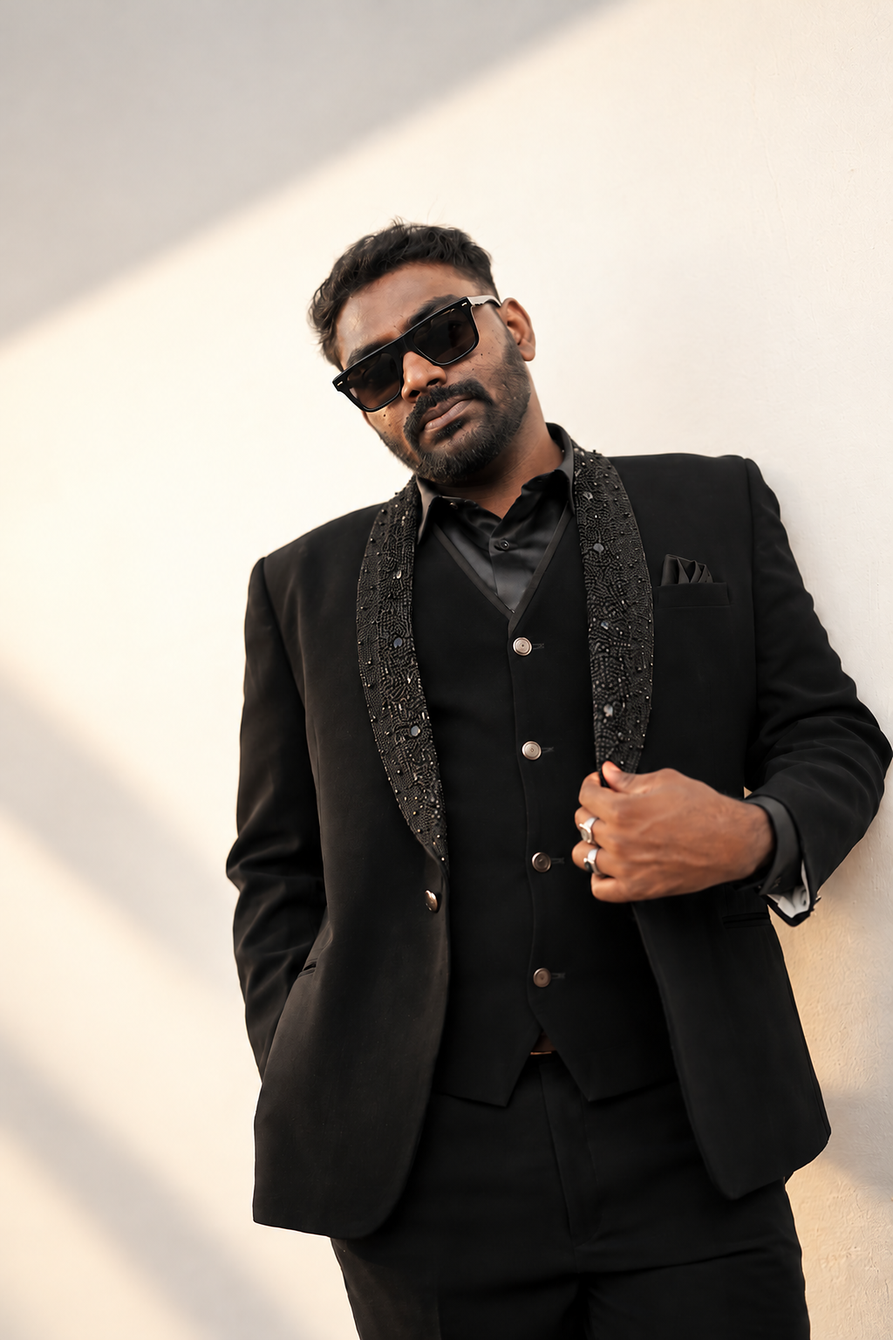
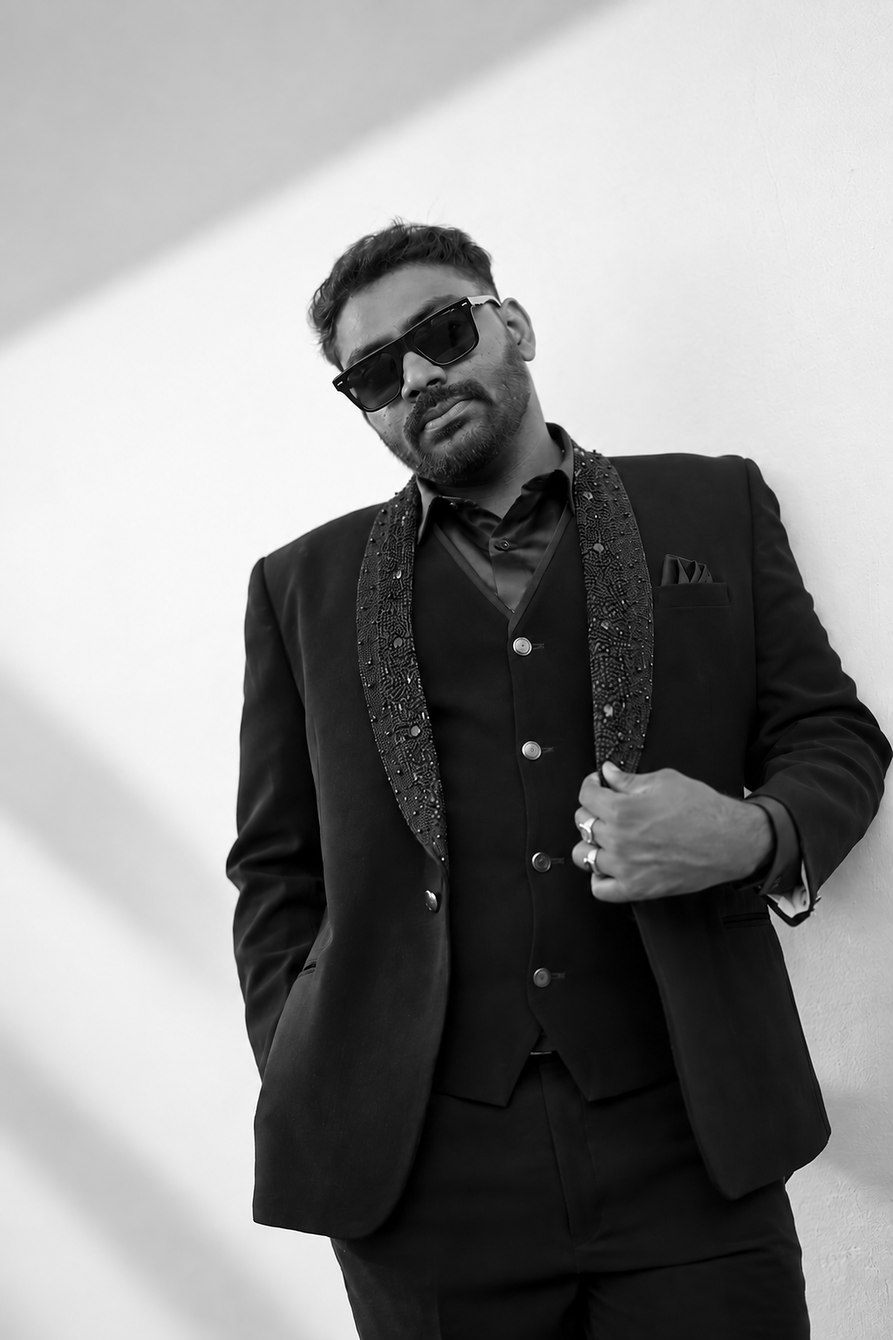
Add files via upload

diff --git a/index.html b/index.html
@@ -1,24 +1,114 @@
-<!doctype html>
+<!DOCTYPE html>
 <html lang="en">
 <head>
-<meta charset="utf-8"><meta name="viewport" content="width=device-width, initial-scale=1"><meta name="theme-color" content="#080808">
-<meta name="description" content="Photography and graphic design portfolio — portraits, wedding photography, editorial imagery and poster design.">
-<title>YOUR NAME — Photography & Graphic Design</title>
-<link rel="preconnect" href="https://fonts.googleapis.com"><link rel="preconnect" href="https://fonts.gstatic.com" crossorigin>
-<link href="https://fonts.googleapis.com/css2?family=DM+Sans:wght@400;500;600;700;800&family=Oswald:wght@400;500;600;700&display=swap" rel="stylesheet">
+<meta charset="UTF-8">
+<meta name="viewport" content="width=device-width, initial-scale=1">
+<meta name="theme-color" content="#080808">
+<meta name="description" content="Photography and graphic design portfolio">
+<title>MOHAMED SHAJITH — Photography & Graphic Design</title>
 <style>
-:root{--bg:#080808;--panel:#111;--white:#f7f4f1;--muted:#aaa5a2;--red:#e50924;--line:#292525;--max:1180px}*{box-sizing:border-box}html{scroll-behavior:smooth}body{margin:0;background:var(--bg);color:var(--white);font-family:'DM Sans',Arial,sans-serif}a{color:inherit;text-decoration:none}img{display:block;max-width:100%}.wrap{width:min(var(--max),calc(100% - 42px));margin:auto}.topline{height:5px;background:var(--red)}header{display:flex;align-items:center;justify-content:space-between;padding:22px 0;border-bottom:1px solid var(--line)}.brand{font-size:11px;font-weight:800;letter-spacing:.19em;text-transform:uppercase}.brand b{color:var(--red)}nav{display:flex;gap:24px;font-size:10px;text-transform:uppercase;letter-spacing:.12em;color:#c5bfbd}nav a:hover,.red{color:var(--red)}.availability{font-size:9px;letter-spacing:.15em;color:#aaa;text-transform:uppercase}.availability:before{content:'';display:inline-block;width:6px;height:6px;border-radius:50%;background:var(--red);margin-right:8px}.hero{display:grid;grid-template-columns:1.12fr .88fr;gap:32px;align-items:stretch;padding:54px 0 42px;min-height:480px}.hero-copy{position:relative;display:flex;flex-direction:column;justify-content:center;overflow:hidden}.ghost{position:absolute;top:-26px;left:-7px;font-family:Oswald,sans-serif;font-weight:700;font-size:clamp(90px,17vw,205px);line-height:1;color:rgba(229,9,36,.14);letter-spacing:-.045em;white-space:nowrap;pointer-events:none}.eyebrow{position:relative;font-size:10px;text-transform:uppercase;letter-spacing:.2em;color:#c7c0bd}.hero h1{position:relative;font-family:Oswald,sans-serif;text-transform:uppercase;font-size:clamp(54px,8.6vw,106px);line-height:.9;letter-spacing:-.025em;margin:18px 0 22px;max-width:700px}.hero h1 span{display:block;color:var(--red)}.hello{font-size:clamp(17px,2.2vw,25px);font-style:italic;color:#d7ceca}.intro{max-width:440px;color:#c2bcb8;font-size:13px;line-height:1.9}.hero-meta{display:flex;gap:24px;margin-top:26px;flex-wrap:wrap}.stat{border-left:2px solid var(--red);padding-left:12px}.stat strong{display:block;font-family:Oswald,sans-serif;font-size:25px}.stat small{font-size:8px;letter-spacing:.12em;color:#aaa;text-transform:uppercase}.hero-photo{position:relative;min-height:390px;background:#171313;overflow:hidden;border:1px solid #302729}.hero-photo img{width:100%;height:100%;min-height:390px;object-fit:cover;object-position:center 25%;filter:grayscale(25%);opacity:.92}.photo-label{position:absolute;bottom:0;left:0;right:0;padding:28px 18px 15px;background:linear-gradient(transparent,rgba(0,0,0,.9));font-size:9px;letter-spacing:.16em;text-transform:uppercase}.photo-label b{color:var(--red)}.section{padding:50px 0;border-top:1px solid var(--line)}.section-head{display:flex;justify-content:space-between;align-items:end;gap:20px;margin-bottom:24px}.kicker{font-size:9px;letter-spacing:.2em;text-transform:uppercase;color:var(--red)}h2{font-family:Oswald,sans-serif;text-transform:uppercase;font-size:clamp(33px,5.5vw,58px);line-height:.98;margin:10px 0 0;letter-spacing:-.02em}.section-head p{max-width:350px;color:var(--muted);font-size:11px;line-height:1.8;margin:0}.project-grid{display:grid;grid-template-columns:repeat(3,1fr);gap:14px}.project{background:var(--panel);border:1px solid #272222;overflow:hidden}.project img{width:100%;height:250px;object-fit:cover;transition:transform .45s}.project:hover img{transform:scale(1.035)}.project-info{padding:15px}.project-top{display:flex;justify-content:space-between;gap:8px;font-size:9px;color:#aaa;text-transform:uppercase;letter-spacing:.12em}.project-no{color:var(--red);font-family:Oswald,sans-serif;font-size:20px}.project h3{font-family:Oswald,sans-serif;text-transform:uppercase;font-size:20px;margin:9px 0 5px}.project p{color:#aaa;font-size:10px;line-height:1.7;margin:0}.poster-grid{display:grid;grid-template-columns:repeat(3,1fr);gap:14px}.poster{aspect-ratio:3/4;padding:20px;display:flex;flex-direction:column;justify-content:space-between;position:relative;overflow:hidden;background:#191516;border:1px solid #3c2226}.poster:after{content:'';position:absolute;inset:9px;border:1px solid rgba(229,9,36,.5)}.poster>*{position:relative;z-index:1}.poster .micro{font-size:8px;letter-spacing:.18em;text-transform:uppercase;color:#e9b9bf}.poster h3{font-family:Oswald,sans-serif;text-transform:uppercase;font-size:clamp(27px,4.3vw,51px);line-height:.88;margin:0;max-width:90%}.poster h3 span{color:var(--red)}.poster .orb{position:absolute;width:66%;aspect-ratio:1;border-radius:50%;background:var(--red);right:-18%;top:27%;opacity:.78;filter:blur(.3px)}.poster:nth-child(2){background:#e9e4df;color:#111;border-color:#d0c8c3}.poster:nth-child(2) .micro,.poster:nth-child(2) .foot{color:#555}.poster:nth-child(2) .orb{background:#111;width:53%;top:20%}.poster:nth-child(3){background:#151719}.poster:nth-child(3) .orb{border-radius:0;transform:rotate(-26deg);height:34%;aspect-ratio:auto;top:25%;right:-12%;background:#8d0b1d}.foot{font-size:8px;line-height:1.6;letter-spacing:.1em;text-transform:uppercase;color:#b9b0ad}.note{font-size:9px;color:#777;margin-top:12px;line-height:1.7}.split{display:grid;grid-template-columns:1fr 1fr;gap:32px}.about-big{font-family:Oswald,sans-serif;text-transform:uppercase;font-size:clamp(34px,5vw,55px);line-height:.97}.about-big span{color:var(--red)}.about-copy{color:#bbb4b1;font-size:12px;line-height:1.9}.skills{display:flex;flex-wrap:wrap;gap:7px;margin-top:18px}.skills span{border:1px solid #41383a;padding:8px 11px;font-size:9px;letter-spacing:.06em;text-transform:uppercase;color:#e0d9d7}.process{display:grid;grid-template-columns:repeat(4,1fr);gap:12px;margin-top:25px}.step{border-top:1px solid #4a252a;padding:14px 4px}.step strong{font-family:Oswald,sans-serif;font-size:26px;color:var(--red)}.step h3{font-size:11px;text-transform:uppercase;letter-spacing:.1em;margin:8px 0}.step p{font-size:10px;line-height:1.7;color:#aaa;margin:0}.contact{display:grid;grid-template-columns:1fr 1fr;gap:25px;background:linear-gradient(120deg,#25080d,#111 70%);border:1px solid #4a1a22;padding:30px;margin:25px 0 45px}.contact h2{font-size:clamp(38px,6vw,65px)}.contact p{color:#c1b7b7;font-size:11px;line-height:1.8;max-width:400px}.contact-details{display:flex;flex-direction:column;justify-content:center;gap:16px}.contact-row{border-bottom:1px solid #41252a;padding:0 0 12px}.contact-row small{display:block;color:#9c888b;text-transform:uppercase;letter-spacing:.15em;font-size:8px;margin-bottom:6px}.contact-row a,.contact-row span{font-size:13px;overflow-wrap:anywhere}.button{display:inline-block;margin-top:14px;padding:13px 17px;background:var(--red);font-size:10px;text-transform:uppercase;letter-spacing:.12em;font-weight:700}.button:hover{background:#ff2740}footer{border-top:1px solid var(--line);padding:18px 0 25px;display:flex;justify-content:space-between;gap:15px;color:#777;font-size:9px;letter-spacing:.08em;text-transform:uppercase}.lightbox{position:fixed;inset:0;background:rgba(0,0,0,.94);display:none;align-items:center;justify-content:center;padding:20px;z-index:20}.lightbox.open{display:flex}.lightbox img{max-height:88vh;max-width:95vw;object-fit:contain}.lightbox button{position:absolute;top:18px;right:18px;background:#171717;color:white;border:1px solid #555;padding:12px;font-size:20px}
-@media(max-width:760px){.wrap{width:calc(100% - 30px)}header{padding:17px 0}.availability{display:none}nav{gap:13px;font-size:8px}.hero{grid-template-columns:1fr;padding-top:35px;gap:22px}.hero-photo{min-height:310px;max-height:430px}.hero-photo img{min-height:310px}.ghost{font-size:26vw}.hero-meta{margin-top:20px}.section{padding:38px 0}.section-head{align-items:start;flex-direction:column}.project-grid{grid-template-columns:1fr 1fr}.project img{height:185px}.project:last-child{grid-column:1/-1}.project:last-child img{height:230px}.poster-grid{gap:8px}.poster{padding:13px}.poster h3{font-size:clamp(22px,6vw,38px)}.poster .micro,.poster .foot{font-size:7px}.split{grid-template-columns:1fr;gap:15px}.process{grid-template-columns:1fr 1fr}.contact{grid-template-columns:1fr;padding:22px;gap:12px}footer{font-size:8px}.navlinks{gap:12px}}@media(max-width:380px){.project-grid{grid-template-columns:1fr}.project:last-child{grid-column:auto}.project img,.project:last-child img{height:250px}.navlinks a:nth-child(3){display:none}}
+:root{--bg:#080808;--panel:#111;--text:#f5f3f1;--muted:#b8b4b4;--red:#ed102c;--line:#292626;--max:1180px}
+*{box-sizing:border-box}html{scroll-behavior:smooth}body{margin:0;background:var(--bg);color:var(--text);font-family:Arial,Helvetica,sans-serif;line-height:1.6}a{color:inherit;text-decoration:none}img{display:block;max-width:100%}.wrap{width:min(var(--max),calc(100% - 40px));margin:auto}.topline{height:5px;background:var(--red)}header{border-bottom:1px solid var(--line)}nav{min-height:76px;display:flex;align-items:center;justify-content:space-between;gap:20px}.brand{font-size:13px;letter-spacing:.22em;font-weight:800;text-transform:uppercase}.brand span{color:var(--red)}.navlinks{display:flex;flex-wrap:wrap;gap:25px;font-size:11px;letter-spacing:.14em;text-transform:uppercase;color:#d0cbcb}.navlinks a:hover,.button:hover{color:var(--red)}
+.hero{padding:70px 0 45px;display:grid;grid-template-columns:1.05fr .95fr;gap:36px;align-items:center}.eyebrow{color:#c9c2c2;font-size:11px;letter-spacing:.22em;text-transform:uppercase}.hello{font-size:clamp(24px,3vw,40px);font-style:italic;margin:16px 0 0;color:#ddd5d5}h1{margin:0;font-size:clamp(58px,9vw,112px);line-height:.9;letter-spacing:-.065em;text-transform:uppercase}h1 span{color:var(--red);display:block}.intro{max-width:560px;color:var(--muted);font-size:16px;margin:30px 0 26px}.button{display:inline-block;border:1px solid var(--red);padding:12px 18px;font-size:11px;letter-spacing:.15em;text-transform:uppercase}.hero-photo{position:relative;min-height:360px;background:#171313;border:1px solid #352326;overflow:hidden}.hero-photo img{width:100%;height:100%;min-height:360px;object-fit:cover}.photo-label{position:absolute;left:14px;bottom:14px;background:rgba(0,0,0,.78);padding:8px 11px;font-size:10px;letter-spacing:.12em;text-transform:uppercase}
+.stats{display:grid;grid-template-columns:repeat(3,1fr);gap:16px;padding:20px 0 60px}.stat{border-left:3px solid var(--red);padding-left:16px}.stat strong{font-size:30px;display:block;line-height:1.2}.stat small{color:#aaa5a5;font-size:10px;letter-spacing:.13em;text-transform:uppercase}section{padding:58px 0;border-top:1px solid var(--line)}.section-head{display:flex;align-items:end;justify-content:space-between;gap:20px;margin-bottom:26px}.kicker{color:var(--red);font-size:10px;letter-spacing:.2em;text-transform:uppercase}h2{margin:4px 0 0;font-size:clamp(30px,5vw,48px);line-height:1.05;letter-spacing:-.04em;text-transform:uppercase}.section-note{color:var(--muted);max-width:390px;font-size:13px}.gallery-filters{display:flex;gap:9px;flex-wrap:wrap;margin:0 0 22px}.gallery-filter{border:1px solid #393033;background:transparent;color:#ddd;padding:10px 15px;font-size:10px;letter-spacing:.14em;text-transform:uppercase;cursor:pointer;transition:background .25s,color .25s,border-color .25s}.gallery-filter:hover,.gallery-filter.active{background:var(--red);border-color:var(--red);color:#fff}.gallery{display:grid;grid-template-columns:repeat(4,minmax(0,1fr));grid-auto-rows:190px;grid-auto-flow:dense;gap:12px}.work-card{position:relative;min-width:0;overflow:hidden;border:1px solid var(--line);background:var(--panel);cursor:pointer}.work-card.tall{grid-row:span 2}.work-card.wide{grid-column:span 2}.work-card img{width:100%;height:100%;object-fit:cover;background:#181414;transition:transform .7s cubic-bezier(.2,.7,.2,1),filter .4s}.work-card:hover img{transform:scale(1.055);filter:brightness(.78)}.work-info{position:absolute;inset:auto 0 0;padding:42px 15px 14px;background:linear-gradient(transparent,rgba(0,0,0,.88));pointer-events:none}.work-info .number{color:#ff5368;font-size:10px;font-weight:800;letter-spacing:.16em}.work-info h3{margin:4px 0;font-size:14px;text-transform:uppercase}.work-info p{margin:0;color:#d0caca;font-size:11px}.work-card[hidden]{display:none}.lightbox{position:fixed;inset:0;z-index:9999;background:rgba(0,0,0,.96);display:none;align-items:center;justify-content:center;padding:24px}.lightbox.open{display:flex}.lightbox img{max-width:100%;max-height:84vh;object-fit:contain}.lightbox-close{position:absolute;right:18px;top:18px;width:46px;height:46px;border:1px solid #555;background:#111;color:white;font-size:28px;cursor:pointer}
+.design-grid{display:grid;grid-template-columns:repeat(4,minmax(0,1fr));gap:14px}.design-card{position:relative;min-height:310px;padding:18px;border:1px solid #34282a;background:#111;display:flex;flex-direction:column;justify-content:space-between;overflow:hidden;isolation:isolate}.design-card:before{content:"";position:absolute;inset:0;z-index:-1;opacity:.9;transition:transform .6s ease}.design-card:hover:before{transform:scale(1.06)}.design-card.poster-red:before{background:linear-gradient(145deg,#ed102c 0 34%,#151515 34% 100%)}.design-card.poster-type:before{background:radial-gradient(circle at 75% 20%,#555 0,#171717 32%,#080808 75%)}.design-card.poster-brand:before{background:linear-gradient(120deg,#d9c6a3 0 50%,#171411 50%)}.design-card.poster-minimal:before{background:linear-gradient(160deg,#141414 0 55%,#ed102c 55% 57%,#090909 57%)}.design-card small{position:relative;color:#ff9aa7;font-size:10px;letter-spacing:.18em;text-transform:uppercase}.design-card strong{position:relative;display:block;font-size:clamp(26px,3vw,42px);line-height:.91;text-transform:uppercase;letter-spacing:-.06em}.design-card span{position:relative;color:#d0caca;font-size:11px;letter-spacing:.04em}.design-card.poster-brand strong{color:#171411}.design-card.poster-brand small{color:#ed102c}.design-card .design-index{font-size:10px;letter-spacing:.2em;color:#aaa}.about-grid{display:grid;grid-template-columns:.8fr 1.2fr;gap:36px;align-items:center}.about-portrait{width:100%;max-height:560px;object-fit:cover;object-position:center 25%;border:1px solid #352326;filter:grayscale(100%);}.about-grid p{color:var(--muted);font-size:14px;margin-top:0}.skills{display:flex;flex-wrap:wrap;gap:8px}.skills span{border:1px solid #3b3031;padding:8px 10px;font-size:10px;letter-spacing:.08em;text-transform:uppercase}.contact{display:grid;grid-template-columns:1fr 1fr;gap:28px;align-items:center}.contact h2{max-width:500px}.contact-details{color:var(--muted);font-size:14px}.contact-details a:not(.button){color:var(--text);border-bottom:1px solid var(--red)}footer{padding:22px 0 30px;border-top:1px solid var(--line);color:#8f8989;font-size:10px;letter-spacing:.1em;text-transform:uppercase}.footer-inner{display:flex;justify-content:space-between;gap:12px;flex-wrap:wrap}
+@media(max-width:760px){.gallery{grid-template-columns:repeat(2,minmax(0,1fr));grid-auto-rows:160px;gap:8px}.work-card.wide{grid-column:span 2}.work-info{padding:32px 10px 10px}.work-info h3{font-size:12px}.work-info p{font-size:10px}.wrap{width:min(calc(100% - 30px),var(--max))}nav{align-items:flex-start;padding:22px 0;flex-direction:column}.navlinks{gap:15px}.hero{padding-top:48px;grid-template-columns:1fr;gap:28px}.hero-photo,.hero-photo img{min-height:280px;max-height:440px}.stats{padding-bottom:42px;gap:10px}.stat{padding-left:10px}.stat strong{font-size:25px}.stat small{font-size:9px}section{padding:44px 0}.section-head{align-items:flex-start;flex-direction:column}.gallery{grid-template-columns:1fr}.design-grid{grid-template-columns:repeat(2,minmax(0,1fr))}.design-card{min-height:250px}.work-card img{aspect-ratio:5/4}.about-grid,.contact{grid-template-columns:1fr;gap:20px}.about-portrait{max-height:520px;object-position:center 25%;}}
+
+/* Smooth, lightweight motion effects */
+:root{scroll-padding-top:20px}
+html{scroll-behavior:smooth}
+body{overflow-x:hidden}
+.topline{transform-origin:left;animation:line-grow .9s ease-out both}
+header{animation:fade-down .7s ease-out both}
+.hero .eyebrow,.hero .hello,.hero h1,.hero .intro,.hero .button{animation:fade-up .75s cubic-bezier(.2,.7,.2,1) both}
+.hero .hello{animation-delay:.08s}.hero h1{animation-delay:.14s}.hero .intro{animation-delay:.22s}.hero .button{animation-delay:.3s}
+.hero-photo{animation:photo-enter .9s .12s cubic-bezier(.2,.7,.2,1) both}
+.hero-photo img{transition:transform .8s cubic-bezier(.2,.7,.2,1),filter .5s ease}
+.hero-photo:hover img{transform:scale(1.035);filter:contrast(1.04)}
+.button{transition:background .25s ease,color .25s ease,transform .25s ease,border-color .25s ease}
+.button:hover{background:var(--red);color:#fff;transform:translateY(-3px);border-color:var(--red)}
+.navlinks a{position:relative;transition:color .25s ease}
+.navlinks a::after{content:"";position:absolute;left:0;right:100%;bottom:-7px;height:2px;background:var(--red);transition:right .25s ease}
+.navlinks a:hover::after{right:0}
+.work-card,.design-card,.stat{transition:transform .3s ease,border-color .3s ease,box-shadow .3s ease}
+.work-card:hover{transform:translateY(-6px);border-color:var(--red);box-shadow:0 14px 36px rgba(237,16,44,.12)}
+.work-card img{transition:transform .65s cubic-bezier(.2,.7,.2,1),filter .4s ease}
+.work-card:hover img{transform:scale(1.025);filter:saturate(1.08)}
+.design-card:hover{transform:translateY(-5px);border-color:var(--red);box-shadow:0 12px 30px rgba(237,16,44,.12)}
+.stat:hover{transform:translateX(4px);border-left-color:#ff7184}
+.skills span{transition:background .25s ease,border-color .25s ease,color .25s ease}
+.skills span:hover{background:var(--red);border-color:var(--red);color:#fff}
+.contact-details a:not(.button){transition:color .2s ease}
+.contact-details a:not(.button):hover{color:#ff7184}
+.reveal-ready .reveal{opacity:0;transform:translateY(22px);transition:opacity .7s ease,transform .7s cubic-bezier(.2,.7,.2,1)}
+.reveal-ready .reveal.is-visible{opacity:1;transform:translateY(0)}
+.reveal-ready .reveal[data-delay="1"]{transition-delay:.1s}.reveal-ready .reveal[data-delay="2"]{transition-delay:.2s}.reveal-ready .reveal[data-delay="3"]{transition-delay:.3s}
+@keyframes line-grow{from{transform:scaleX(0)}to{transform:scaleX(1)}}
+@keyframes fade-down{from{opacity:0;transform:translateY(-12px)}to{opacity:1;transform:translateY(0)}}
+@keyframes fade-up{from{opacity:0;transform:translateY(18px)}to{opacity:1;transform:translateY(0)}}
+@keyframes photo-enter{from{opacity:0;transform:translateX(18px) scale(.985)}to{opacity:1;transform:translateX(0) scale(1)}}
+@media(prefers-reduced-motion:reduce){html{scroll-behavior:auto}*,*::before,*::after{animation-duration:.01ms!important;animation-iteration-count:1!important;transition-duration:.01ms!important;scroll-behavior:auto!important}.reveal-ready .reveal{opacity:1;transform:none}}
+
+.design-grid-approved{grid-template-columns:repeat(2,minmax(0,1fr));align-items:stretch}.design-grid-approved .design-card{min-height:340px}.design-card .design-subtitle{display:block;font-size:11px;line-height:1.5;letter-spacing:.04em;text-transform:none;margin-top:16px;color:#d0caca}.design-grid-approved .design-concepts{grid-column:1/-1;min-height:210px}.design-grid-approved .design-concepts strong{font-size:clamp(28px,4vw,48px)}.design-note{color:var(--muted);font-size:11px;margin-top:14px;max-width:760px}.design-grid-approved .poster-brand strong{color:#171411}.design-grid-approved .poster-brand .design-subtitle{color:#292321}@media(max-width:760px){.design-grid-approved{grid-template-columns:1fr}.design-grid-approved .design-card{min-height:250px}.design-grid-approved .design-concepts{grid-column:auto;min-height:220px}}
+
 </style>
 </head>
-<body><div class="topline"></div><div class="wrap">
-<header><a class="brand" href="#top">YOUR NAME <b>®</b></a><nav><a href="#work">Work</a><a href="#design">Design</a><a href="#about">About</a><a href="#contact">Contact</a></nav><div class="availability">Available for freelance</div></header>
-<main id="top"><section class="hero"><div class="hero-copy"><div class="ghost">CREATE.</div><div class="eyebrow">Photography / Graphic design / Visual storytelling</div><div class="hello">Hello, I'm</div><h1>YOUR <span>NAME</span></h1><p class="intro">Photographer and graphic designer creating bold visuals, thoughtful layouts, and memorable images for people and brands. I bring a clean eye, strong composition, and attention to detail to every project.</p><div class="hero-meta"><div class="stat"><strong>02</strong><small>Creative disciplines</small></div><div class="stat"><strong>01</strong><small>Personal approach</small></div><div class="stat"><strong>∞</strong><small>Ideas to explore</small></div></div></div><div class="hero-photo"><img src="formal-portraits.jpg" alt="Portrait photography by YOUR NAME"><div class="photo-label"><b>Selected portrait</b> / Photography portfolio</div></div></section>
-<section class="section" id="work"><div class="section-head"><div><div class="kicker">01 / Selected work</div><h2>Frames. Forms.<br><span class="red">Feeling.</span></h2></div><p>A selection of portrait, wedding, and editorial photography. Every frame is built around light, emotion, and a strong visual point of view.</p></div><div class="project-grid"><article class="project"><img src="formal-portraits.jpg" alt="Formal portrait photography" loading="lazy"><div class="project-info"><div class="project-top"><span>Photography</span><span class="project-no">01</span></div><h3>Portrait studies</h3><p>Character-led portraits with a refined, editorial finish.</p></div></article><article class="project"><img src="bridal-portraits.jpg" alt="Bridal portrait photography" loading="lazy"><div class="project-info"><div class="project-top"><span>Wedding / Portrait</span><span class="project-no">02</span></div><h3>Bridal stories</h3><p>Elegant details, honest emotion, and timeless wedding imagery.</p></div></article><article class="project"><img src="outdoor-editorial.jpg" alt="Outdoor editorial photography" loading="lazy"><div class="project-info"><div class="project-top"><span>Editorial</span><span class="project-no">03</span></div><h3>Outdoor editorial</h3><p>Fashion-inspired portraits with confident framing and atmosphere.</p></div></article></div></section>
-<section class="section" id="design"><div class="section-head"><div><div class="kicker">02 / Graphic design</div><h2>Make it<br><span class="red">stand out.</span></h2></div><p>Visual directions for campaigns, posters, and digital communication. These are concept layouts to show style and hierarchy, not client projects.</p></div><div class="poster-grid"><article class="poster"><div class="micro">Visual campaign / 001</div><div class="orb"></div><h3>Make<br>noise<span>.</span><br>Not clutter.</h3><div class="foot">Concept poster<br>Art direction / Typography</div></article><article class="poster"><div class="micro">Studio notes / 002</div><div class="orb"></div><h3>Less,<br>but<br><span>better.</span></h3><div class="foot">Minimal design<br>Composition / Layout</div></article><article class="poster"><div class="micro">Culture / 003</div><div class="orb"></div><h3>Ideas<br>in red<span>.</span></h3><div class="foot">Creative concept<br>Poster / Visual identity</div></article></div><p class="note">Poster visuals shown here are original portfolio concepts. Replace them with finished client work whenever you're ready.</p></section>
-<section class="section" id="about"><div class="split"><div><div class="kicker">03 / About me</div><div class="about-big">Good visuals<br>make people<br><span>feel something.</span></div></div><div class="about-copy">I'm a visual creative working across photography and graphic design. I enjoy shaping images, building strong compositions, and turning ideas into polished visual stories. My approach is practical, collaborative, and focused on the details that make the work feel considered.<div class="skills"><span>Photography</span><span>Portraits</span><span>Wedding photography</span><span>Poster design</span><span>Photoshop</span><span>Lightroom</span><span>Illustrator</span><span>Typography</span><span>Layout design</span></div></div></div><div class="section-head" style="margin-top:42px;margin-bottom:0"><div><div class="kicker">04 / Work process</div><h2>From idea<br>to final.</h2></div><p>A clear, collaborative process keeps each project focused and consistent from the first conversation to delivery.</p></div><div class="process"><div class="step"><strong>01</strong><h3>Discover</h3><p>Understand the brief, audience, purpose, and mood.</p></div><div class="step"><strong>02</strong><h3>Plan</h3><p>Build a visual direction and agree on the details.</p></div><div class="step"><strong>03</strong><h3>Create</h3><p>Shoot, select, design, refine, and polish the work.</p></div><div class="step"><strong>04</strong><h3>Deliver</h3><p>Prepare final files and deliver them ready to use.</p></div></div></section>
-<section class="contact" id="contact"><div><div class="kicker">05 / Let's work together</div><h2>Have a good<br>project in mind<span class="red">?</span></h2><p>I'm open to photography assignments, graphic design projects, and creative opportunities. Get in touch to discuss your next idea.</p><a class="button" href="mailto:your.email@example.com">Start a conversation ↗</a></div><div class="contact-details"><div class="contact-row"><small>Email</small><a href="mailto:your.email@example.com">your.email@example.com</a></div><div class="contact-row"><small>Speciality</small><span>Photography & Graphic Design</span></div><div class="contact-row"><small>Availability</small><span>Freelance / Job opportunities</span></div></div></section></main>
-<footer><span>© <span id="year"></span> YOUR NAME</span><span>Photography · Graphic design · Visual storytelling</span><a href="#top">Back to top ↑</a></footer></div>
-<div class="lightbox" id="lightbox" role="dialog" aria-label="Expanded photograph"><button id="close" aria-label="Close image">×</button><img id="lightbox-image" alt="Expanded portfolio photograph"></div>
-<script>document.getElementById('year').textContent=new Date().getFullYear();const box=document.getElementById('lightbox'),big=document.getElementById('lightbox-image');document.querySelectorAll('.project img,.hero-photo img').forEach(img=>{img.style.cursor='zoom-in';img.addEventListener('click',()=>{big.src=img.src;big.alt=img.alt;box.classList.add('open')})});document.getElementById('close').addEventListener('click',()=>box.classList.remove('open'));box.addEventListener('click',e=>{if(e.target===box)box.classList.remove('open')});document.addEventListener('keydown',e=>{if(e.key==='Escape')box.classList.remove('open')});</script>
-</body></html>
+<body>
+<div class="topline"></div>
+<header><nav class="wrap"><a class="brand" href="#home">MOHAMED SHAJITH <span>®</span></a><div class="navlinks"><a href="#work">Photography</a><a href="#design">Design</a><a href="#about">About</a><a href="#contact">Contact</a></div></nav></header>
+<main>
+<div class="wrap" id="home">
+<section class="hero" style="border-top:0"><div><div class="eyebrow">Photography / Graphic Design / Visual Storytelling</div><p class="hello">Hello, I'm</p><h1>Mohamed <span>Shajith</span></h1><p class="intro">Photographer and graphic designer creating bold visuals, thoughtful layouts, and memorable images. I bring a clean eye, strong composition, and attention to detail to every project.</p><a class="button" href="#contact">Let's work together ↗</a></div><div class="hero-photo"><img src="formal-portraits.jpg" alt="Portrait photography portfolio"></div></section>
+
+</div>
+<section id="work" class="reveal-section"><div class="wrap"><div class="section-head"><div><div class="kicker">01 / Selected work</div><h2>Photography</h2></div><p class="section-note">A focused collection of groom portraits, bride portraits, couple stories, and graphic design. Simple, personal, and carefully crafted.</p></div>
+<div class="gallery-filters" aria-label="Filter photography"><button class="gallery-filter active" data-filter="all" type="button">All work</button><button class="gallery-filter" data-filter="groom" type="button">Groom</button><button class="gallery-filter" data-filter="bride" type="button">Bride</button><button class="gallery-filter" data-filter="couple" type="button">Couples</button></div>
+<div class="gallery">
+<article class="work-card tall reveal" data-category="groom" tabindex="0" role="button" aria-label="View Groom Portraits"><img src="formal-portraits.jpg" alt="Groom and formal portrait photography" loading="lazy"><div class="work-info"><h3>Groom Portraits</h3></div></article>
+<article class="work-card tall reveal" data-category="bride" tabindex="0" role="button" aria-label="View Bride Portraits"><img src="bridal-portraits.jpg" alt="Bride portrait photography" loading="lazy"><div class="work-info"><h3>Bride Portraits</h3></div></article>
+<article class="work-card wide reveal" data-category="couple" tabindex="0" role="button" aria-label="View Couple Portraits"><img src="https://images.unsplash.com/photo-1519741497674-611481863552?auto=format&amp;fit=crop&amp;w=1200&amp;q=85" alt="Sample couple wedding portrait placeholder" loading="lazy"><div class="work-info"><h3>Couple Portraits</h3></div></article>
+<article class="work-card reveal" data-category="groom" tabindex="0" role="button" aria-label="View Editorial Groom Portrait"><img src="outdoor-editorial.jpg" alt="Editorial outdoor portrait that can represent groom style" loading="lazy"><div class="work-info"><h3>Editorial Portrait</h3></div></article>
+</div></div></div></section>
+<div class="lightbox" id="galleryLightbox" role="dialog" aria-modal="true" aria-label="Expanded photograph"><button class="lightbox-close" id="galleryClose" type="button" aria-label="Close image">×</button><img id="galleryLargeImage" src="" alt=""></div>
+<section id="design" class="reveal-section"><div class="wrap"><div class="section-head"><div><h2>Graphic Design</h2></div><p class="section-note">A focused showcase of poster design and brand identity, presented separately from wedding photography.</p></div><div class="design-grid design-grid-approved">
+<article class="design-card poster-red reveal"><div><strong>Poster<br>Design<span class="design-subtitle">Selected posters · Campaigns · Editorial</span></strong></div></article>
+<article class="design-card poster-brand reveal" data-delay="1"><div><strong>Brand<br>Identity<span class="design-subtitle">Logos · Color systems · Applications</span></strong></div></article>
+
+</div></div></section>
+<section id="about" class="reveal-section"><div class="wrap about-grid"><div><img class="about-portrait" src="Shajith.png" alt="Mohamed Shajith in a black formal suit"></div><div><h2>Frames.<br>Forms.<br><span style="color:var(--red)">Feeling.</span></h2></div><div><p>I'm a photographer and graphic designer who enjoys creating expressive portraits and purposeful visual design. My approach is simple: understand the brief, pay attention to the details, and make work that feels considered.</p><div class="skills"><span>Photography</span><span>Portraits</span><span>Wedding</span><span>Graphic Design</span><span>Poster Design</span><span>Photoshop</span><span>Lightroom</span><span>Illustrator</span></div></div></div></section>
+<section id="contact" class="reveal-section"><div class="wrap contact"><div><h2>Let's make something <span style="color:var(--red)">great.</span></h2><p class="intro" style="margin-bottom:0">Available for photography, poster design, and creative projects.</p></div><div class="contact-details"><p>Email: <a href="mailto:mohad.shajith@gmail.com">mohad.shajith@gmail.com</a></p><p>WhatsApp: <a href="https://wa.me/919597119423" target="_blank" rel="noopener noreferrer">+91 95971 19423</a></p><p>Location: Tamil Nadu, India</p><a class="button" href="mailto:mohad.shajith@gmail.com">Email me ↗</a> <a class="button" href="https://wa.me/919597119423" target="_blank" rel="noopener noreferrer">WhatsApp ↗</a></div></div></section>
+</main>
+<footer><div class="wrap footer-inner"><span>© <span id="year"></span> MOHAMED SHAJITH</span><span>Photography · Graphic Design</span></div></footer>
+<script>
+document.getElementById('year').textContent=new Date().getFullYear();
+
+// Gallery filters and accessible full-screen viewer
+(function(){
+ const cards=document.querySelectorAll('.work-card[data-category]');
+ const filters=document.querySelectorAll('.gallery-filter');
+ const box=document.getElementById('galleryLightbox');
+ const large=document.getElementById('galleryLargeImage');
+ const close=document.getElementById('galleryClose');
+ filters.forEach(btn=>btn.addEventListener('click',()=>{filters.forEach(b=>b.classList.remove('active'));btn.classList.add('active');const f=btn.dataset.filter;cards.forEach(card=>{card.hidden=f!=='all'&&card.dataset.category!==f;});}));
+ function open(card){const img=card.querySelector('img');if(!img)return;large.src=img.currentSrc||img.src;large.alt=img.alt;box.classList.add('open');document.body.style.overflow='hidden';close.focus();}
+ function shut(){box.classList.remove('open');large.src='';document.body.style.overflow='';}
+ cards.forEach(card=>{card.addEventListener('click',()=>open(card));card.addEventListener('keydown',e=>{if(e.key==='Enter'||e.key===' '){e.preventDefault();open(card);}});});
+ close.addEventListener('click',shut);box.addEventListener('click',e=>{if(e.target===box)shut();});document.addEventListener('keydown',e=>{if(e.key==='Escape')shut();});
+})();
+
+// Reveal sections as they enter the viewport; content remains visible if unsupported.
+if ('IntersectionObserver' in window && !window.matchMedia('(prefers-reduced-motion: reduce)').matches) {
+  document.documentElement.classList.add('reveal-ready');
+  const observer = new IntersectionObserver((entries, obs) => {
+    entries.forEach(entry => {
+      if (entry.isIntersecting) {
+        entry.target.classList.add('is-visible');
+        obs.unobserve(entry.target);
+      }
+    });
+  }, { threshold: 0.12, rootMargin: '0px 0px -30px 0px' });
+  document.querySelectorAll('.reveal, .reveal-section .section-head, .reveal-section .about-grid, .reveal-section .contact').forEach(el => observer.observe(el));
+}
+</script>
+</body>
+</html>
